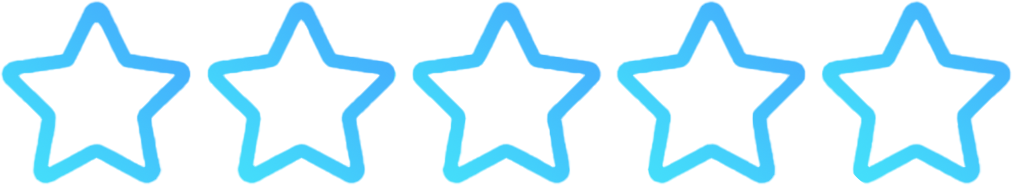
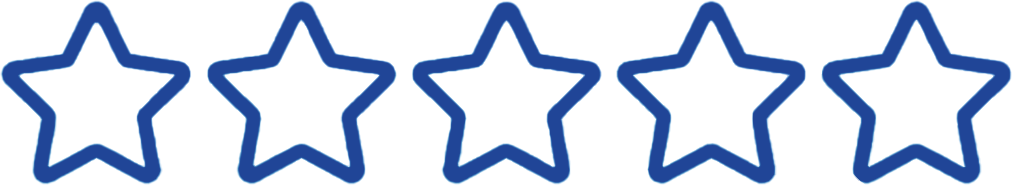
new brand

Changed region(s): [[0.0, 0.0, 1.0, 1.0]]

diff --git a/styles/artisans.css b/styles/artisans.css
@@ -1,13 +1,14 @@
 @import url('https://fonts.googleapis.com/css2?family=Montserrat:ital,wght@0,100..900;1,100..900&display=swap');
 
 .headerglobal {
+    margin-top: 20px;
+    margin-bottom: 20px;
     height: 120px;
     display: flex;
     align-items: center;
     justify-content: space-between;
     background-color: white;
     padding: 0 50px;
-    /* Padding sur les côtés */
 }
 
 .headerglobal img {
@@ -116,7 +117,7 @@
     text-align: center;
     font-family: Montserrat, sans-serif;
     font-size: 17px;
-    background: linear-gradient(to right, #44defa, #44abfc);
+    background: #003ab8;
     -webkit-background-clip: text;
     -webkit-text-fill-color: transparent;
     background-clip: text;
@@ -171,7 +172,7 @@
 }
 
 .buttons button {
-    background: linear-gradient(to right, #4facfe, #00f2fe);
+    background: #003ab8;
     border: none;
     box-shadow: none;
     outline: none;
@@ -414,6 +415,8 @@ textarea {
     border-width: 0.5px;
     font-family: Montserrat, sans-serif;
     border-radius: 5px;
+    background: #003ab8;
+    color: white;
 }
 
 .leftcolumnforms .submitform:focus {
@@ -421,8 +424,6 @@ textarea {
 }
 
 .leftcolumnforms .submitform:hover {
-    background: linear-gradient(to right, #44defa, #44abfc);
     border-color: white;
     color: white;
-    transition: background 0.3s, border-color 0.3s, color 0.3s;
 }

diff --git a/artisans.html b/artisans.html
@@ -13,7 +13,7 @@
 <body>
     <header>
         <div class="headerglobal">
-            <img src="/images/arti banner.png" alt="">
+            <img src="/images/logo-arti-libre.png" alt="">
             <div class="clickables">
                 <p>Artisans</p>
                 <p>Contact</p>
